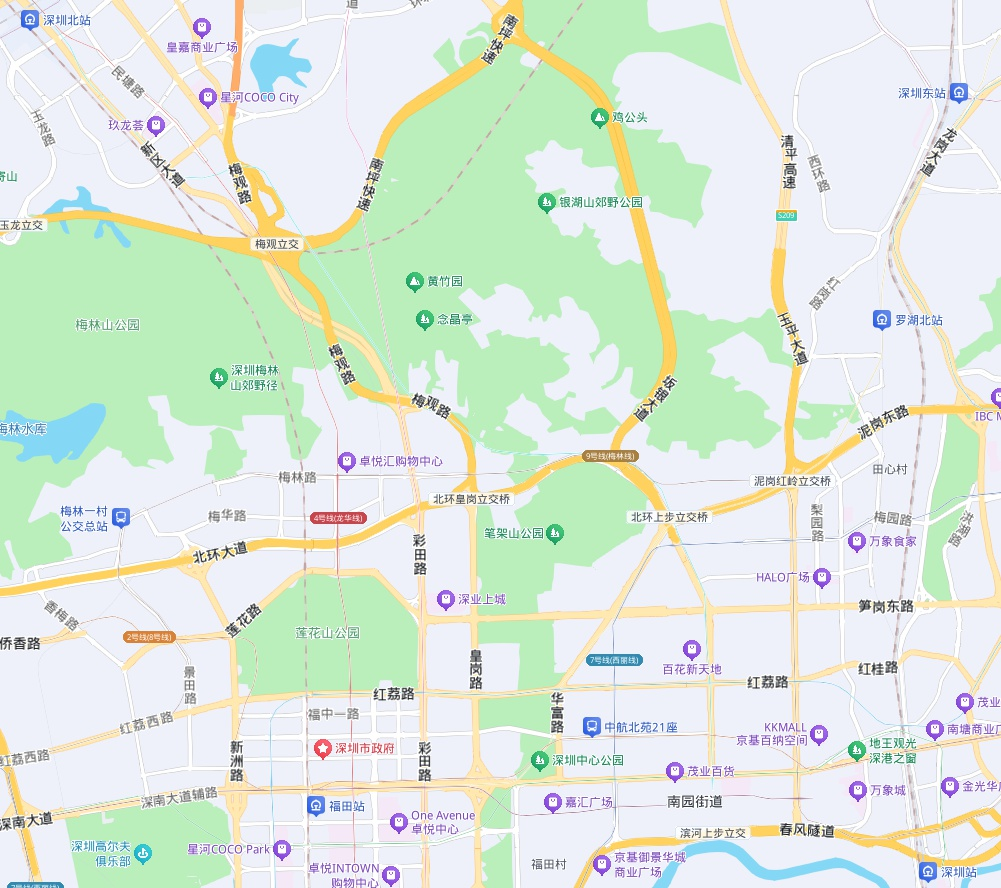
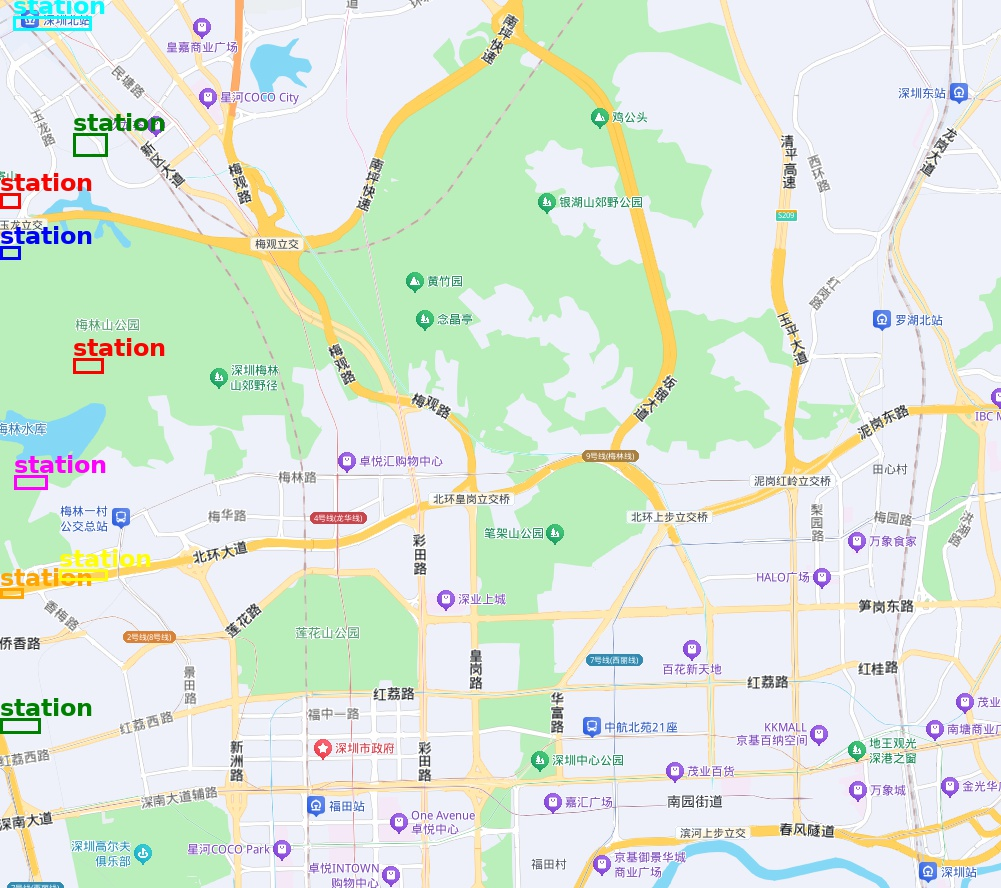
work202606081145

diff --git a/001-Result_Show/Result_Show.html b/001-Result_Show/Result_Show.html
@@ -11,80 +11,62 @@ h1 { font-size: 28px; font-weight: 300; letter-spacing: 2px; margin-bottom: 32px
 table { width: 100%; border-collapse: collapse; table-layout: fixed; }
 th { text-align: center; padding: 12px 8px; border-bottom: 2px solid #111; font-size: 13px; font-weight: 600; text-transform: uppercase; letter-spacing: 1px; color: #555; }
 td { padding: 12px 8px; border-bottom: 1px solid #e0e0e0; vertical-align: middle; text-align: center; }
-td:first-child { width: 5%; color: #999; font-size: 14px; }
-td:nth-child(2) { width: 12%; font-size: 14px; font-weight: 500; }
-td:nth-child(3), td:nth-child(5) { width: 30%; }
-td:nth-child(4) { width: 13%; }
-td:nth-child(6) { width: 8%; color: #666; font-size: 14px; font-variant-numeric: tabular-nums; }
-td:nth-child(7) { width: 10%; color: #666; font-size: 14px; }
+td:first-child { color: #999; font-size: 14px; }
+td:nth-child(2) { font-size: 14px; font-weight: 500; }
+td:nth-child(6), td:nth-child(7) { color: #666; font-size: 14px; font-variant-numeric: tabular-nums; }
 .thumb { max-width: 260px; max-height: 150px; border: 1px solid #ddd; cursor: pointer; transition: box-shadow .2s; }
 .thumb:hover { box-shadow: 0 2px 12px rgba(0,0,0,.15); }
 .code-link { color: #111; text-decoration: none; border: 1px solid #ccc; padding: 6px 16px; font-size: 13px; display: inline-block; }
 .code-link:hover { background: #f5f5f5; }
+.rate-hang { background: #e74c3c; color: #fff; font-weight: 700; }
+.rate-top { background: #f39c12; color: #fff; font-weight: 700; }
+.rate-rsr { background: #f1c40f; color: #111; font-weight: 700; }
+.rate-npc { background: #fdebd0; color: #111; }
 </style>
 </head>
 <body>
-
 <h1>结果展示</h1>
-
 <table>
 <thead>
-<tr><th>#</th><th>名称</th><th>原始图片</th><th>代码</th><th>处理结果</th><th>用时</th><th>GPU 显存</th></tr>
+<tr><th width="1%">#</th><th width="5%">名称</th><th width="22%">输入原图</th><th width="10%">代码</th><th width="22%">输出结果</th><th width="5%">用时</th><th width="5%">GPU 显存</th><th width="20%">评论</th><th width="10%">评价</th></tr>
 </thead>
 <tbody>
-
 <tr>
-  <td>1</td>
-  <td>cat</td>
+  <td>1</td><td>cat</td>
   <td><a href="https://raw.githubusercontent.com/zhxbayernfan/RealMagic02/main/001-Result_Show/1/original-1.jpeg" target="_blank"><img class="thumb" src="https://raw.githubusercontent.com/zhxbayernfan/RealMagic02/main/001-Result_Show/1/original-1.jpeg"></a></td>
   <td><a class="code-link" href="https://github.com/zhxbayernfan/RealMagic02/blob/main/001-Result_Show/1/code-1.py" target="_blank">code-1.py</a></td>
   <td><a href="https://raw.githubusercontent.com/zhxbayernfan/RealMagic02/main/001-Result_Show/1/result-1.jpeg" target="_blank"><img class="thumb" src="https://raw.githubusercontent.com/zhxbayernfan/RealMagic02/main/001-Result_Show/1/result-1.jpeg"></a></td>
-  <td>3526ms</td>
-  <td>8887MB</td>
+  <td>3526ms</td><td>8887MB</td><td>识别多了一只不存在的猫，框体右侧顶到了边缘</td><td class="rate-rsr">人上人</td>
 </tr>
-
 <tr>
-  <td>2</td>
-  <td>players1</td>
+  <td>2</td><td>players1</td>
   <td><a href="https://raw.githubusercontent.com/zhxbayernfan/RealMagic02/main/001-Result_Show/2/original-2.jpeg" target="_blank"><img class="thumb" src="https://raw.githubusercontent.com/zhxbayernfan/RealMagic02/main/001-Result_Show/2/original-2.jpeg"></a></td>
   <td><a class="code-link" href="https://github.com/zhxbayernfan/RealMagic02/blob/main/001-Result_Show/2/code-2.py" target="_blank">code-2.py</a></td>
   <td><a href="https://raw.githubusercontent.com/zhxbayernfan/RealMagic02/main/001-Result_Show/2/result-2.jpeg" target="_blank"><img class="thumb" src="https://raw.githubusercontent.com/zhxbayernfan/RealMagic02/main/001-Result_Show/2/result-2.jpeg"></a></td>
-  <td>5188ms</td>
-  <td>8912MB</td>
+  <td>5188ms</td><td>8912MB</td><td>六名球员均识别出来了，甚至可以识别到勾肩搭背状态下在其他人肩膀上的手臂部份 但是框体底部仍然顶到边缘</td><td class="rate-hang">夯<sup>-</sup></td>
 </tr>
-
 <tr>
-  <td>3</td>
-  <td>trophies1</td>
+  <td>3</td><td>trophies1</td>
   <td><a href="https://raw.githubusercontent.com/zhxbayernfan/RealMagic02/main/001-Result_Show/3/original-3.jpeg" target="_blank"><img class="thumb" src="https://raw.githubusercontent.com/zhxbayernfan/RealMagic02/main/001-Result_Show/3/original-3.jpeg"></a></td>
   <td><a class="code-link" href="https://github.com/zhxbayernfan/RealMagic02/blob/main/001-Result_Show/3/code-3.py" target="_blank">code-3.py</a></td>
   <td><a href="https://raw.githubusercontent.com/zhxbayernfan/RealMagic02/main/001-Result_Show/3/result-3.jpeg" target="_blank"><img class="thumb" src="https://raw.githubusercontent.com/zhxbayernfan/RealMagic02/main/001-Result_Show/3/result-3.jpeg"></a></td>
-  <td>4634ms</td>
-  <td>8876MB</td>
+  <td>4634ms</td><td>8876MB</td><td>四个奖杯完美框住，不大不小。。。但其实这是多次识别的结果，并非模型一次出图</td><td class="rate-hang">"夯"</td>
 </tr>
-
 <tr>
-  <td>4</td>
-  <td>players2</td>
+  <td>4</td><td>players2</td>
   <td><a href="https://raw.githubusercontent.com/zhxbayernfan/RealMagic02/main/001-Result_Show/4/original-4.jpg" target="_blank"><img class="thumb" src="https://raw.githubusercontent.com/zhxbayernfan/RealMagic02/main/001-Result_Show/4/original-4.jpg"></a></td>
   <td><a class="code-link" href="https://github.com/zhxbayernfan/RealMagic02/blob/main/001-Result_Show/4/code-4.py" target="_blank">code-4.py</a></td>
   <td><a href="https://raw.githubusercontent.com/zhxbayernfan/RealMagic02/main/001-Result_Show/4/result-4.jpg" target="_blank"><img class="thumb" src="https://raw.githubusercontent.com/zhxbayernfan/RealMagic02/main/001-Result_Show/4/result-4.jpg"></a></td>
-  <td>6087ms</td>
-  <td>8901MB</td>
+  <td>6087ms</td><td>8901MB</td><td>11名球员9个正确 2个框体过宽，且人均&ldquo;路易十六&rdquo; 框体底部仍然顶到边缘</td><td class="rate-top">顶级</td>
 </tr>
-
 <tr>
-  <td>5</td>
-  <td>station</td>
+  <td>5</td><td>station</td>
   <td><a href="https://raw.githubusercontent.com/zhxbayernfan/RealMagic02/main/001-Result_Show/5/original-5.jpeg" target="_blank"><img class="thumb" src="https://raw.githubusercontent.com/zhxbayernfan/RealMagic02/main/001-Result_Show/5/original-5.jpeg"></a></td>
   <td><a class="code-link" href="https://github.com/zhxbayernfan/RealMagic02/blob/main/001-Result_Show/5/code-5.py" target="_blank">code-5.py</a></td>
   <td><a href="https://raw.githubusercontent.com/zhxbayernfan/RealMagic02/main/001-Result_Show/5/result-5.jpeg" target="_blank"><img class="thumb" src="https://raw.githubusercontent.com/zhxbayernfan/RealMagic02/main/001-Result_Show/5/result-5.jpeg"></a></td>
-  <td>4562ms</td>
-  <td>8894MB</td>
+  <td>4562ms</td><td>8894MB</td><td>模型识别基本失败，对于地图的图例可能不包含</td><td>拉完了</td>
 </tr>
-
 </tbody>
 </table>
-
 </body>
 </html>

diff --git a/001-Result_Show/5/code-5.py b/001-Result_Show/5/code-5.py
@@ -21,7 +21,7 @@ from transformers import AutoModel, AutoProcessor
 # ==================== 配置 ====================
 model_path = "/home/zhanghexiang/LocateAnything-3B"
 image_path = "/home/zhanghexiang/zhx/RealMagic02/001-Result_Show/5/original-5.jpeg"
-question = "Find the train station in the image."  # 自然语言查询
+question = "Find the text in the image."  # 自然语言查询
 max_side = 1008  # 图片最大边长，控制显存占用
 # ==============================================
 
@@ -59,7 +59,7 @@ messages = [{
     "role": "user",
     "content": [
         {"type": "image", "image": image},
-        {"type": "station", "station": question}
+        {"type": "text", "text": question}
     ]
 }]
 text = processor.apply_chat_template(messages, tokenize=False, add_generation_prompt=True)